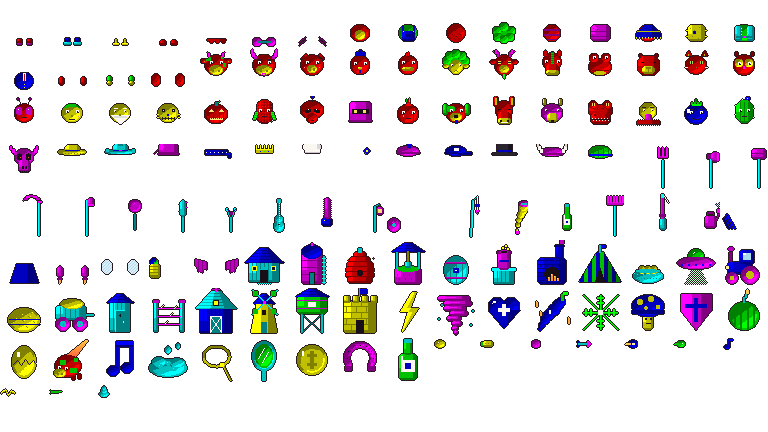
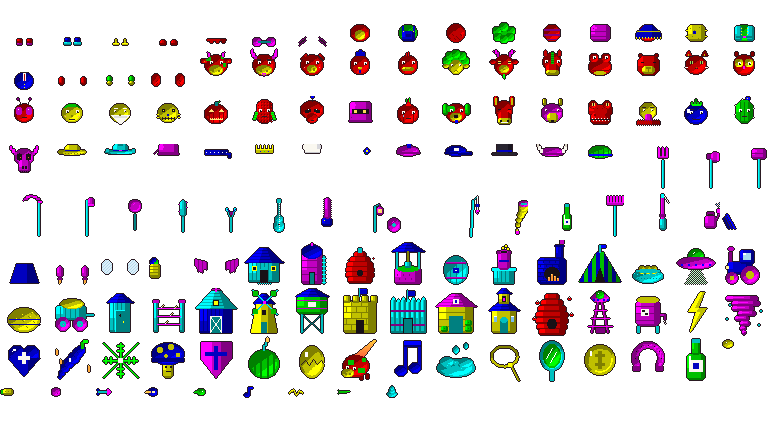
Corrige puxão/empurrão em ataques à distância (Sapo Linguarudo não puxava); auditoria automática dos efeitos de todas as cartas; aba Torres separada com 6 torres novas e atalho pro Criador
Claude-Session: https://claude.ai/code/session_01F2c9wwKpd4XWAaAeM55Dzi

diff --git a/ci/tools/arte/objetos.py b/ci/tools/arte/objetos.py
@@ -585,12 +585,106 @@ def ico_garrafa():
     return fin(cv)
 
 
+def torre_forte():
+    """forte de toras (paliçada)"""
+    cv = Canvas()
+    for i, x in enumerate(range(7, 40, 5)):
+        top = 12 + (2 if i % 2 else 0)
+        cv.blob_rect(x, top, 5, 45 - top, "W", 1)
+        cv.rect(x + 1, top - 2, 3, 2, C("W", 0))
+        cv.put(x + 2, top - 3, C("W", 0))
+    cv.rect(7, 22, 34, 2, C("M", 2)); cv.rect(7, 36, 34, 2, C("M", 2))
+    cv.rect(19, 30, 10, 15, PUPIL)
+    cv.rect(20, 31, 8, 14, C("W", 2))
+    cv.rect(23, 2, 1, 10, C("W", 1)); cv.rect(24, 3, 7, 5, C("A", 1))
+    return fin(cv)
+
+
+def torre_armazem():
+    """armazém de sacas"""
+    cv = Canvas()
+    cv.blob_rect(7, 18, 34, 27, "K", 2)
+    _telhado(cv, 4, 44, 6, 18, "M")
+    for y in (24, 31, 38):
+        cv.rect(7, y, 34, 1, C("K", 2))
+    cv.rect(17, 28, 14, 17, C("W", 2))
+    for x, y in ((9, 38), (33, 38), (33, 32)):                 # sacas na porta
+        cv.blob_rect(x, y, 7, 6, "S", 2)
+        cv.put(x + 3, y + 2, C("S", 2))
+    cv.rect(21, 11, 6, 5, EYE_W); cv.rect(23, 12, 2, 3, C("A", 1))
+    return fin(cv)
+
+
+def torre_capela():
+    """capelinha do sino"""
+    cv = Canvas()
+    cv.blob_rect(12, 22, 24, 23, "K", 2)
+    _telhado(cv, 9, 39, 13, 22, "A")
+    cv.blob_rect(19, 4, 10, 12, "K", 1)                        # torre do sino
+    _telhado(cv, 17, 31, 0, 5, "A")
+    cv.rect(22, 8, 4, 6, PUPIL); cv.rect(23, 10, 2, 3, C("M", 0))
+    cv.rect(20, 32, 8, 13, C("W", 2)); cv.ellipse(24, 32, 4, 3, "W", shade=False)
+    for x in (14, 31):
+        cv.rect(x, 28, 3, 6, (120, 190, 240, 255)); cv.rect(x, 28, 3, 1, SHINE)
+    return fin(cv)
+
+
+def torre_colmeia():
+    """colmeia gigante"""
+    cv = Canvas()
+    for y, half in ((6, 7), (12, 11), (18, 14), (24, 16), (30, 16), (36, 15), (41, 13)):
+        cv.blob_rect(24 - half, y, half * 2, 6, "P", 2)
+        cv.rect(24 - half + 1, y + 5, half * 2 - 2, 1, C("P", 2))
+    cv.ellipse(24, 36, 5, 5.5, "M", shade=False)
+    for y in range(30, 43):
+        for x in range(18, 31):
+            if cv.get(x, y)[:3] == C("M", 1)[:3]:
+                cv.put(x, y, PUPIL)
+    for x, y in ((8, 14), (40, 10), (42, 26), (5, 30)):          # abelhas
+        cv.rect(x, y, 3, 2, C("P", 0)); cv.put(x + 1, y, PUPIL); cv.put(x + 1, y - 1, EYE_W)
+    return fin(cv)
+
+
+def torre_antena():
+    """torre de sinal do ET"""
+    cv = Canvas()
+    for x in (15, 31):
+        cv.line(x, 44, 24 + (x - 24) // 4, 14, C("M", 1))
+        cv.line(x + 1, 44, 25 + (x - 24) // 4, 14, C("M", 2))
+    for y in (22, 30, 38):
+        w = 4 + (y - 14) // 3
+        cv.rect(24 - w, y, w * 2 + 1, 1, C("M", 0))
+    cv.ellipse(24, 10, 9, 4.5, "M")
+    cv.ellipse(24, 7, 4.5, 4, "S")
+    cv.put(22, 5, SHINE)
+    for x in (17, 21, 27, 31):
+        cv.rect(x, 11, 2, 2, C("A", 0))
+    cv.rect(20, 40, 9, 5, C("M", 2))
+    return fin(cv)
+
+
+def torre_cocho():
+    """bebedouro/cocho de leite (economia)"""
+    cv = Canvas()
+    cv.blob_rect(12, 12, 24, 26, "M", 4)
+    for y in (18, 25, 32):
+        cv.rect(12, y, 24, 1, C("M", 2))
+    cv.ellipse(24, 12, 11.5, 3.5, "K", shade=False)
+    cv.rect(13, 38, 3, 7, C("W", 1)); cv.rect(32, 38, 3, 7, C("W", 1))
+    cv.rect(36, 26, 5, 2, C("M", 1)); cv.rect(40, 26, 2, 6, C("M", 2))   # torneira
+    cv.put(40, 33, EYE_W); cv.put(41, 35, EYE_W)
+    cv.rect(17, 21, 8, 7, EYE_W)
+    cv.rect(18, 22, 3, 2, PUPIL); cv.rect(21, 25, 3, 2, PUPIL)            # mancha de vaca
+    return fin(cv)
+
+
 OBJETOS = {
     "objeto": {"galinheiro": obj_galinheiro, "silo": obj_silo, "colmeia": obj_colmeia, "poco": obj_poco,
                "barril": obj_barril, "canhao_milho": obj_espantalho_torre, "fornalha": obj_fornalha,
                "tenda": obj_tenda, "ninho": obj_ninho, "ovni": obj_ovni, "trator": obj_trator, "feno": obj_monte_feno,
                "carroca": obj_carroca, "casinha": obj_casinha, "cerca_eletrica": obj_cerca_eletrica},
-    "torre": {"celeiro": torre_celeiro, "moinho": torre_moinho, "caixa_dagua": torre_caixa_dagua, "castelo_feno": torre_castelo_feno},
+    "torre": {"celeiro": torre_celeiro, "moinho": torre_moinho, "caixa_dagua": torre_caixa_dagua, "castelo_feno": torre_castelo_feno,
+              "forte": torre_forte, "armazem": torre_armazem, "capela": torre_capela, "colmeia": torre_colmeia, "antena": torre_antena, "cocho": torre_cocho},
     "icone": {"raio": ico_raio, "tornado": ico_tornado, "coracao": ico_coracao, "pimenta": ico_pimenta,
               "floco": ico_floco, "cogumelo": ico_cogumelo, "escudo": ico_escudo, "melancia": ico_melancia,
               "ovo": ico_ovo, "vaca_caindo": ico_vaca_caindo, "nota": ico_nota, "lama": ico_lama,
